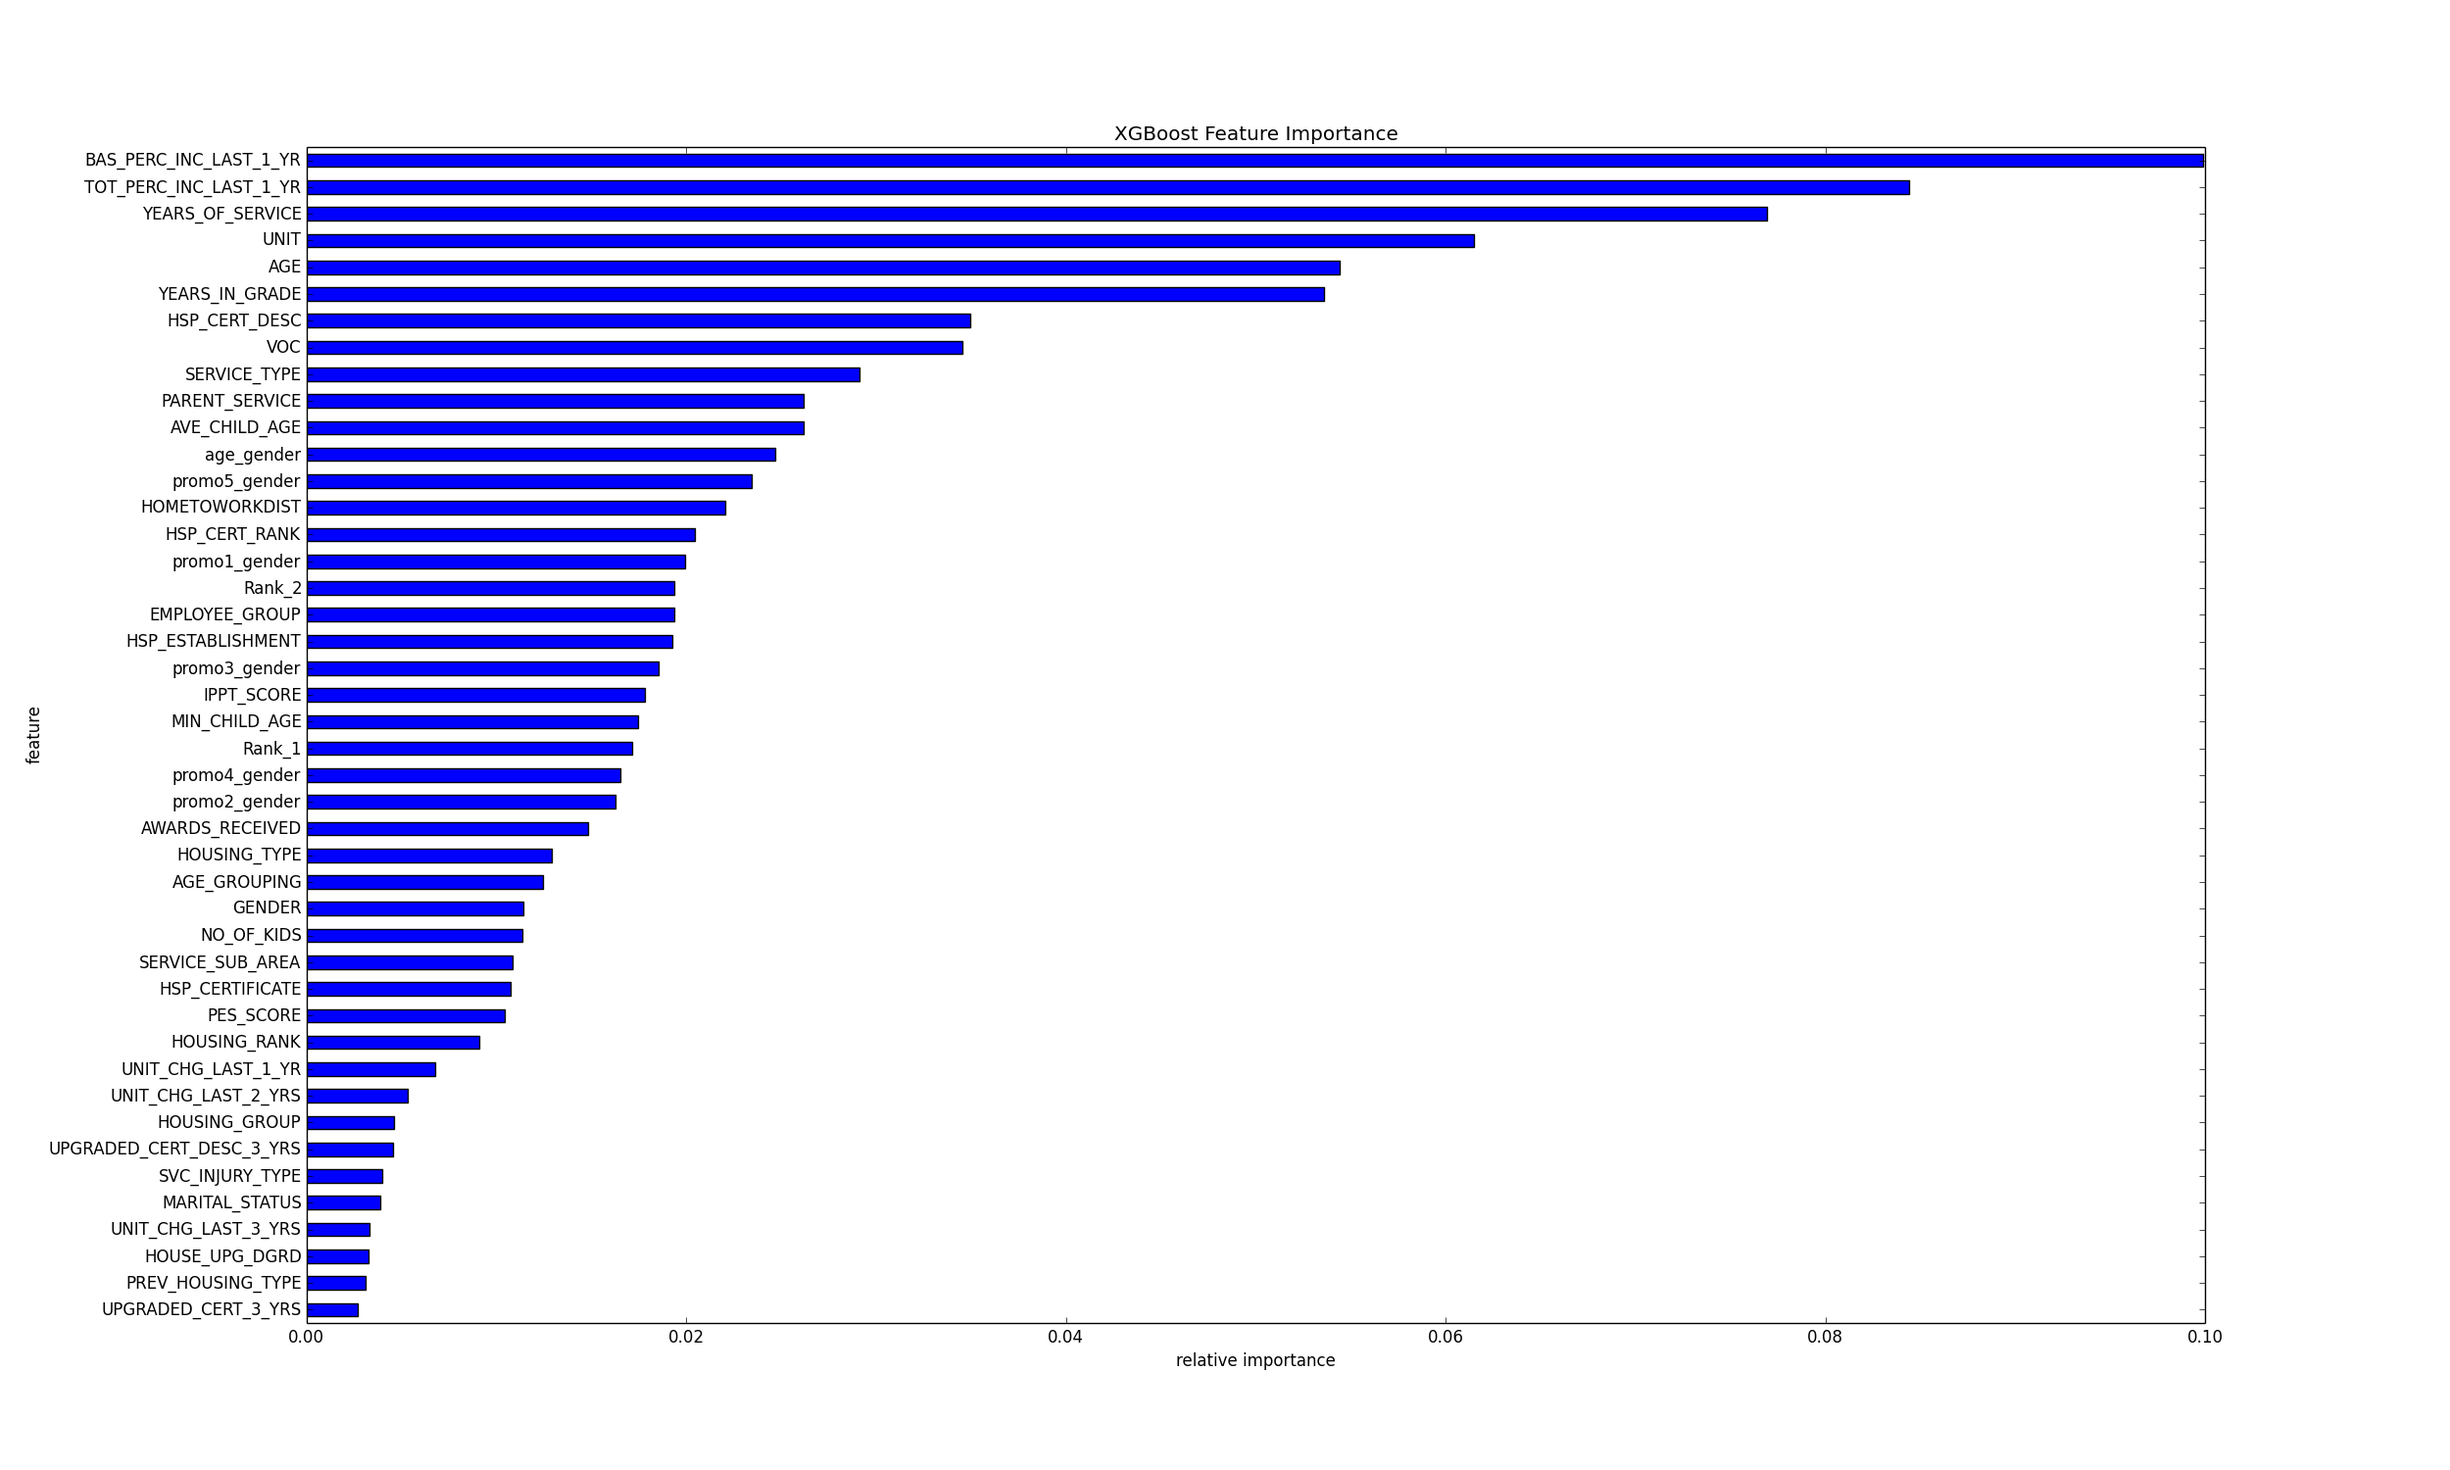
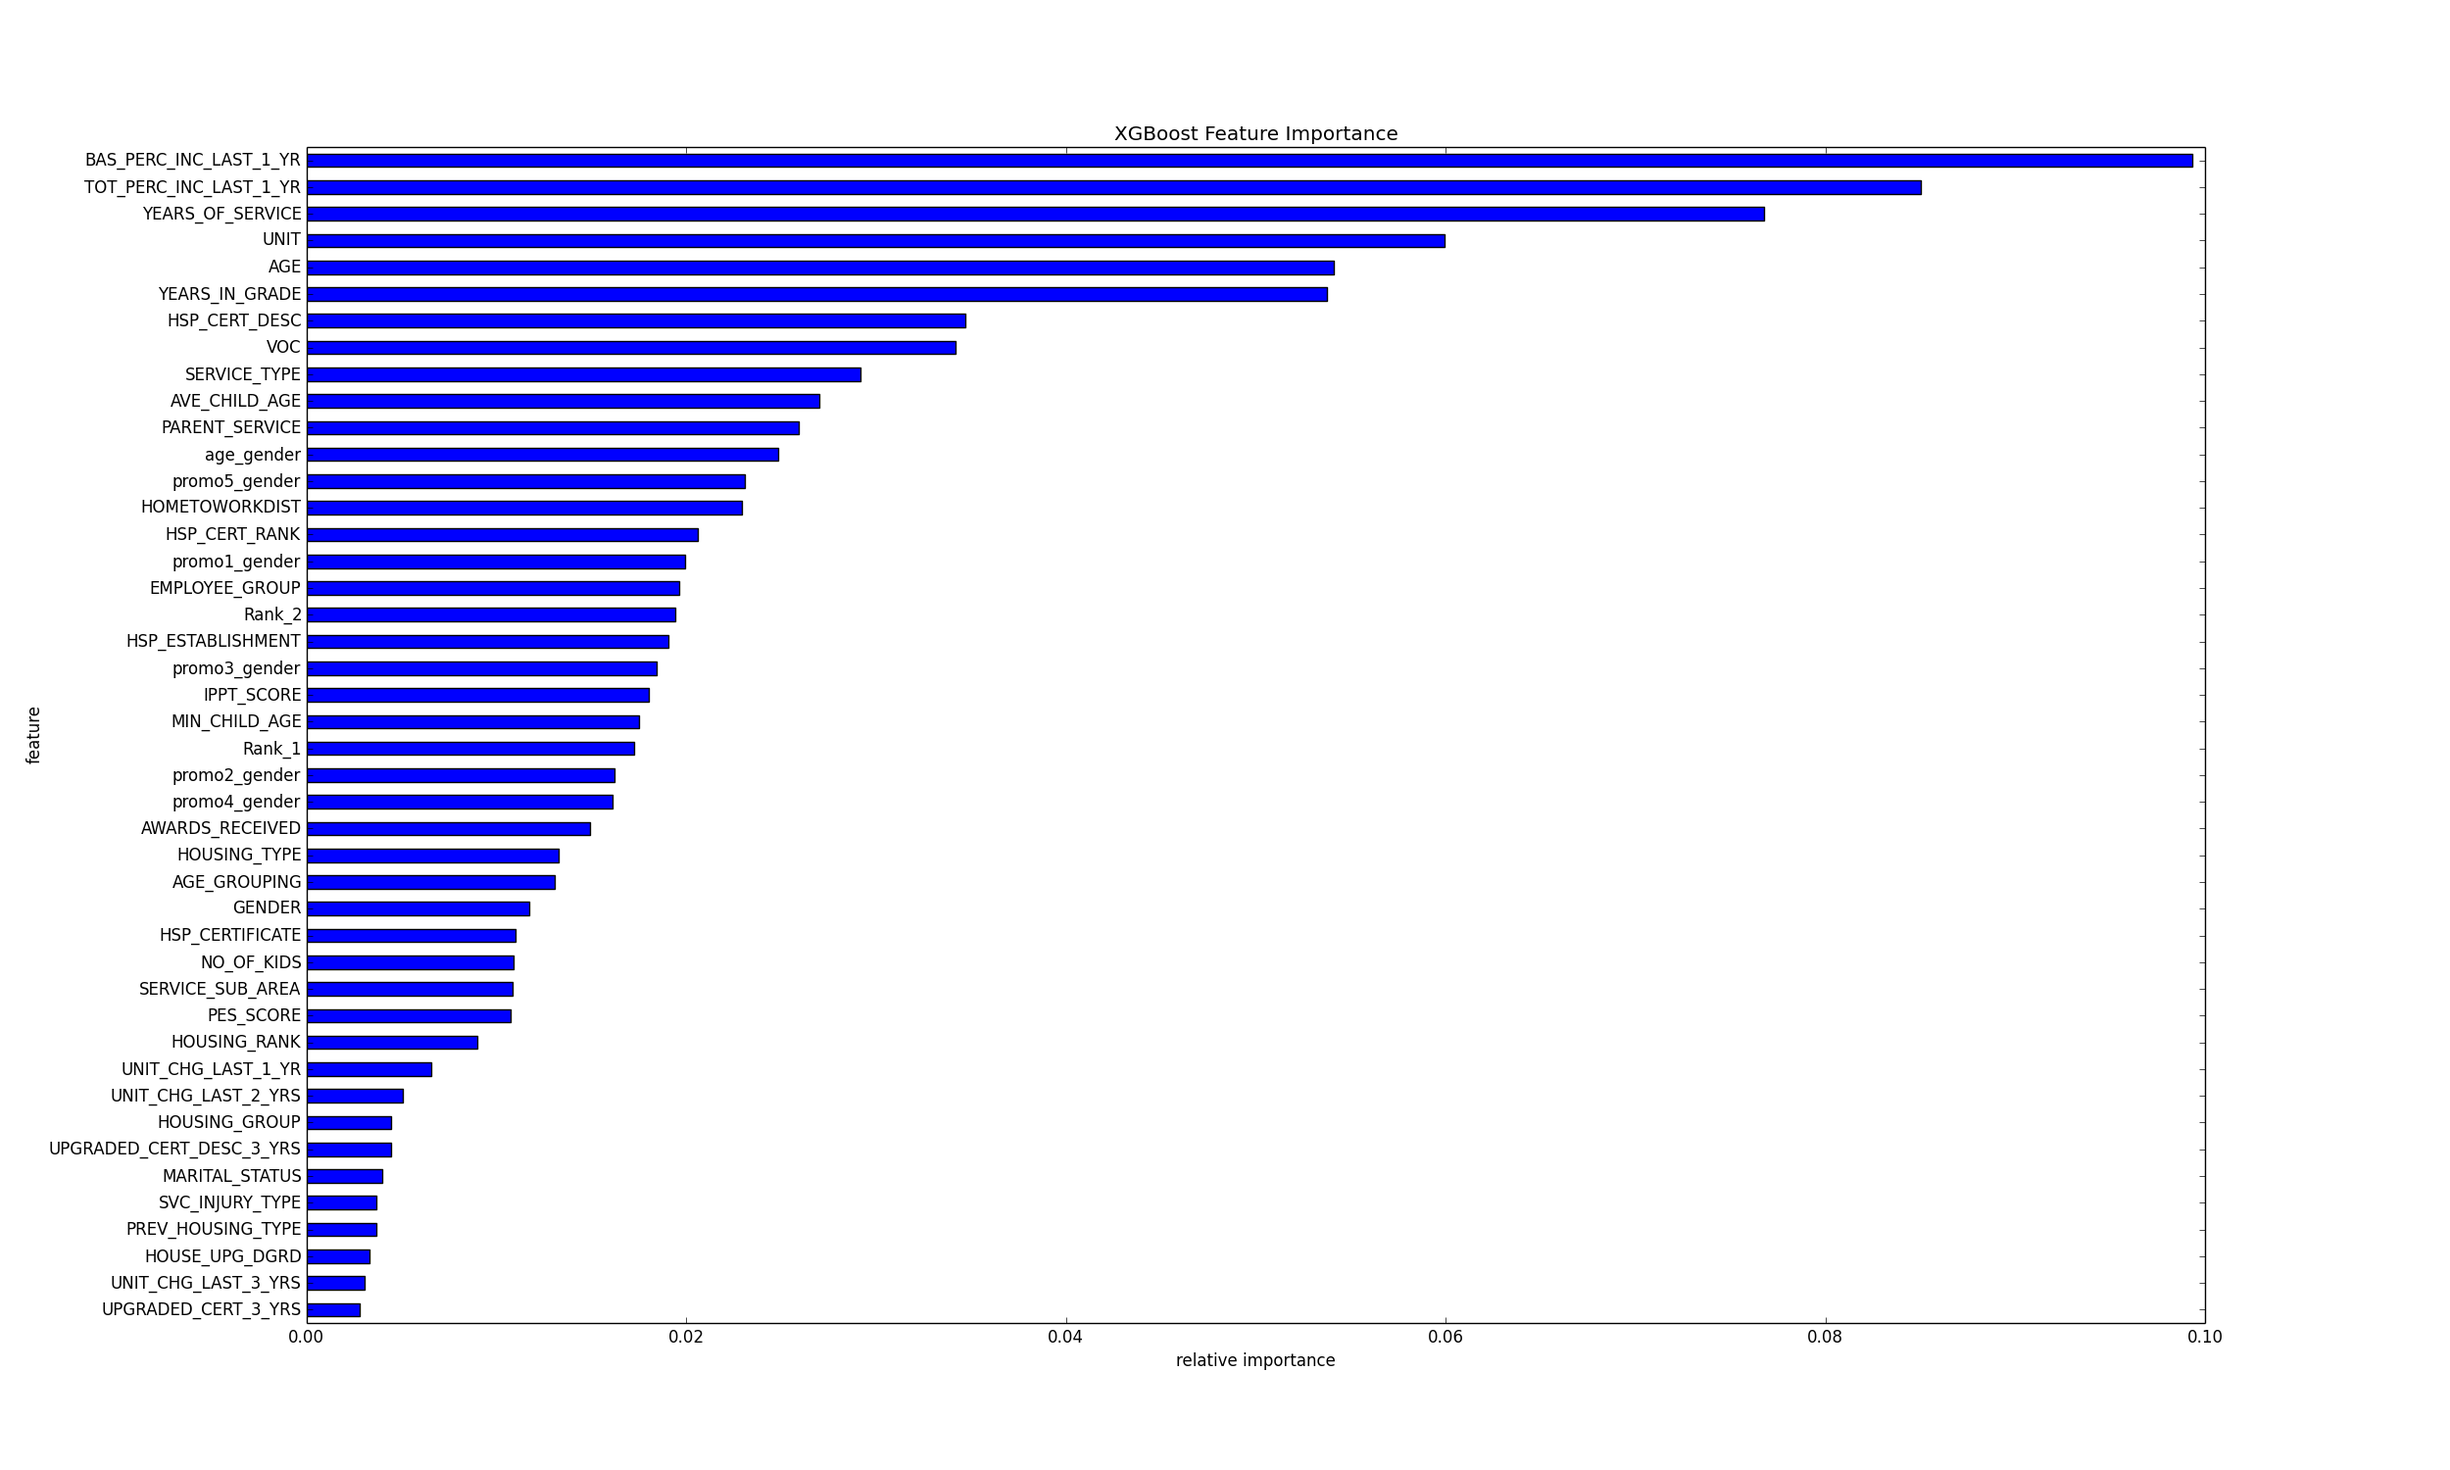
Better handling MinChAge - 0.0169515

diff --git a/classify-xgb-native.py b/classify-xgb-native.py
@@ -68,8 +68,8 @@ features = [c for c in features if c not in noisy_features]
 features_non_numeric = [c for c in features_non_numeric if c not in noisy_features]
 
 # Load data
-train = pd.read_csv('./data/20150803115609-HR_Retention_2013_training.csv', dtype={'SVC_INJURY_TYPE':np.str})
-test = pd.read_csv('./data/20150803115608-HR_Retention_2013_to_be_predicted.csv', dtype={'SVC_INJURY_TYPE':np.str})
+train = pd.read_csv('./data/20150803115609-HR_Retention_2013_training.csv', dtype={'SVC_INJURY_TYPE':np.str,'MIN_CHILD_AGE':np.str})
+test = pd.read_csv('./data/20150803115608-HR_Retention_2013_to_be_predicted.csv', dtype={'SVC_INJURY_TYPE':np.str,'MIN_CHILD_AGE':np.str})
 
 # # FEATURE ENGINEERING
 # # Gender and promotion
@@ -118,6 +118,15 @@ test['TOT_PERC_INC_LAST_1_YR'] = test['TOT_PERC_INC_LAST_1_YR'].apply(lambda x: 
 train['BAS_PERC_INC_LAST_1_YR'] = train['BAS_PERC_INC_LAST_1_YR'].apply(lambda x: 101 if x > 101 else x)
 test['BAS_PERC_INC_LAST_1_YR'] = test['BAS_PERC_INC_LAST_1_YR'].apply(lambda x: 101 if x > 101 else x)
 
+# # Min Child Age
+def mca(row):
+    if row['NO_OF_KIDS'] == 0:
+        return '35'
+    else:
+        return row['MIN_CHILD_AGE']
+train['MIN_CHILD_AGE'] = train.apply(mca,axis=1)
+test['MIN_CHILD_AGE'] = test.apply(mca,axis=1)
+
 # Fill NA
 train = DataFrameImputer().fit_transform(train)
 test = DataFrameImputer().fit_transform(test)
@@ -133,7 +142,7 @@ for col in features_non_numeric:
 scaler = StandardScaler()
 for col in set(features) - set(features_non_numeric) - \
   set(['TOT_PERC_INC_LAST_1_YR','BAS_PERC_INC_LAST_1_YR','AGE',
-       'YEARS_IN_GRADE', 'YEARS_OF_SERVICE', 'NO_OF_KIDS', 'MIN_CHILD_AGE',
+       'YEARS_IN_GRADE', 'YEARS_OF_SERVICE', 'NO_OF_KIDS',
        'AVE_CHILD_AGE','HSP_CERT_RANK','HOUSING_RANK']):
     scaler.fit(list(train[col])+list(test[col]))
     train[col] = scaler.transform(train[col])

diff --git a/README.md b/README.md
@@ -59,3 +59,13 @@ $ python classify-xgb-native.py # INJURY TYPE as String
 0.014069437855
 Results: [0.015302275189484418, 0.018994479453434174, 0.0095749448394401911, 0.013922039406634879, 0.014069437855035585]
 Mean: 0.0143726353488 (Local Score)
+
+7) Public Leader Board 0.0169515
+$ python classify-xgb-native.py # better minchildage # treat as str
+0.0152455036731
+0.0189285563506
+0.00961418416464
+0.0139189502782
+0.0139664367926
+Results: [0.015245503673132394, 0.018928556350630326, 0.0096141841646366355, 0.01391895027824846, 0.013966436792574888]
+Mean: 0.0143347262518 (Local Score)
